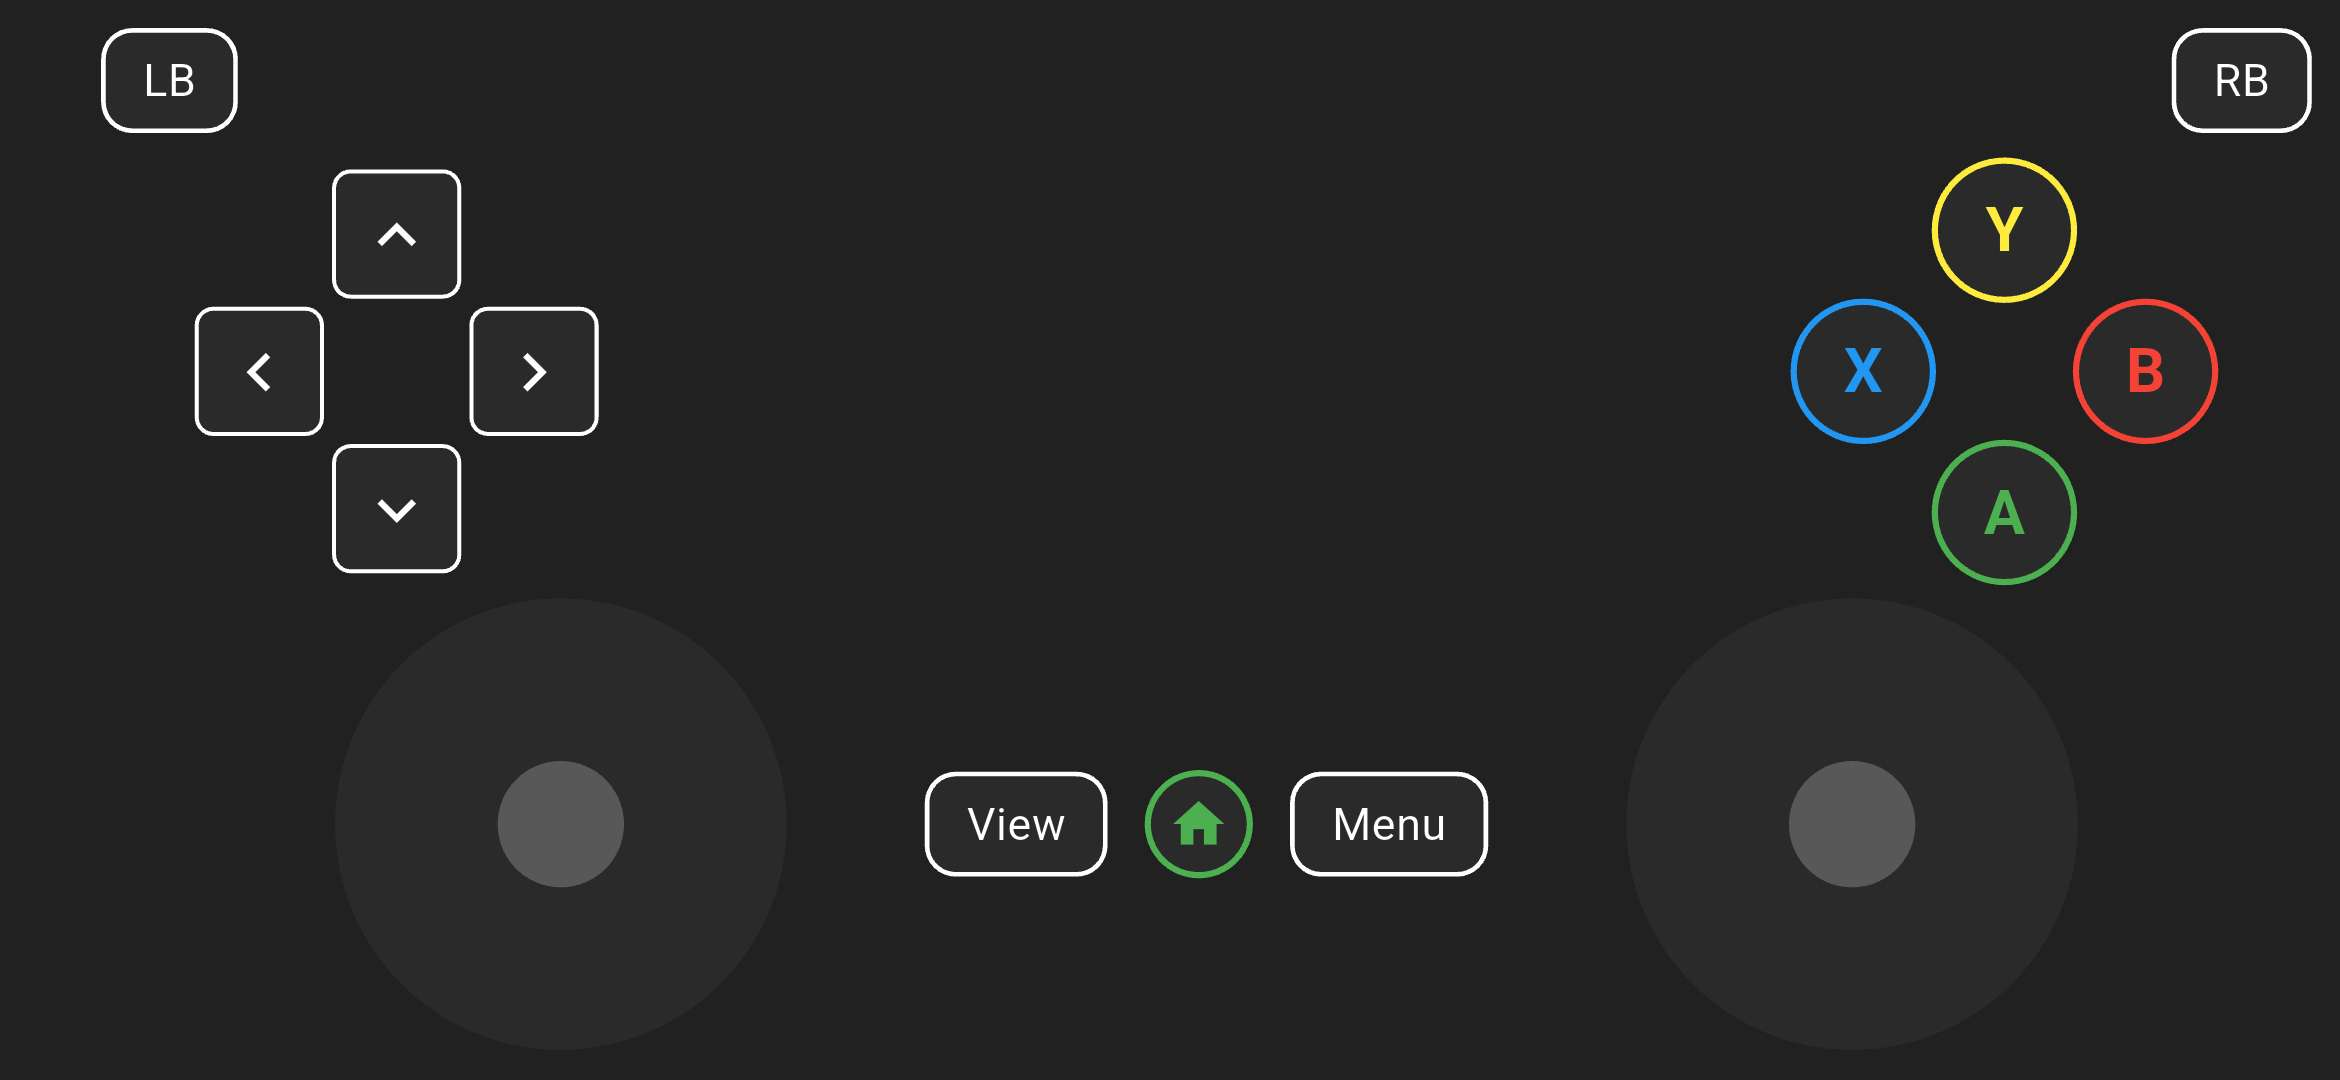
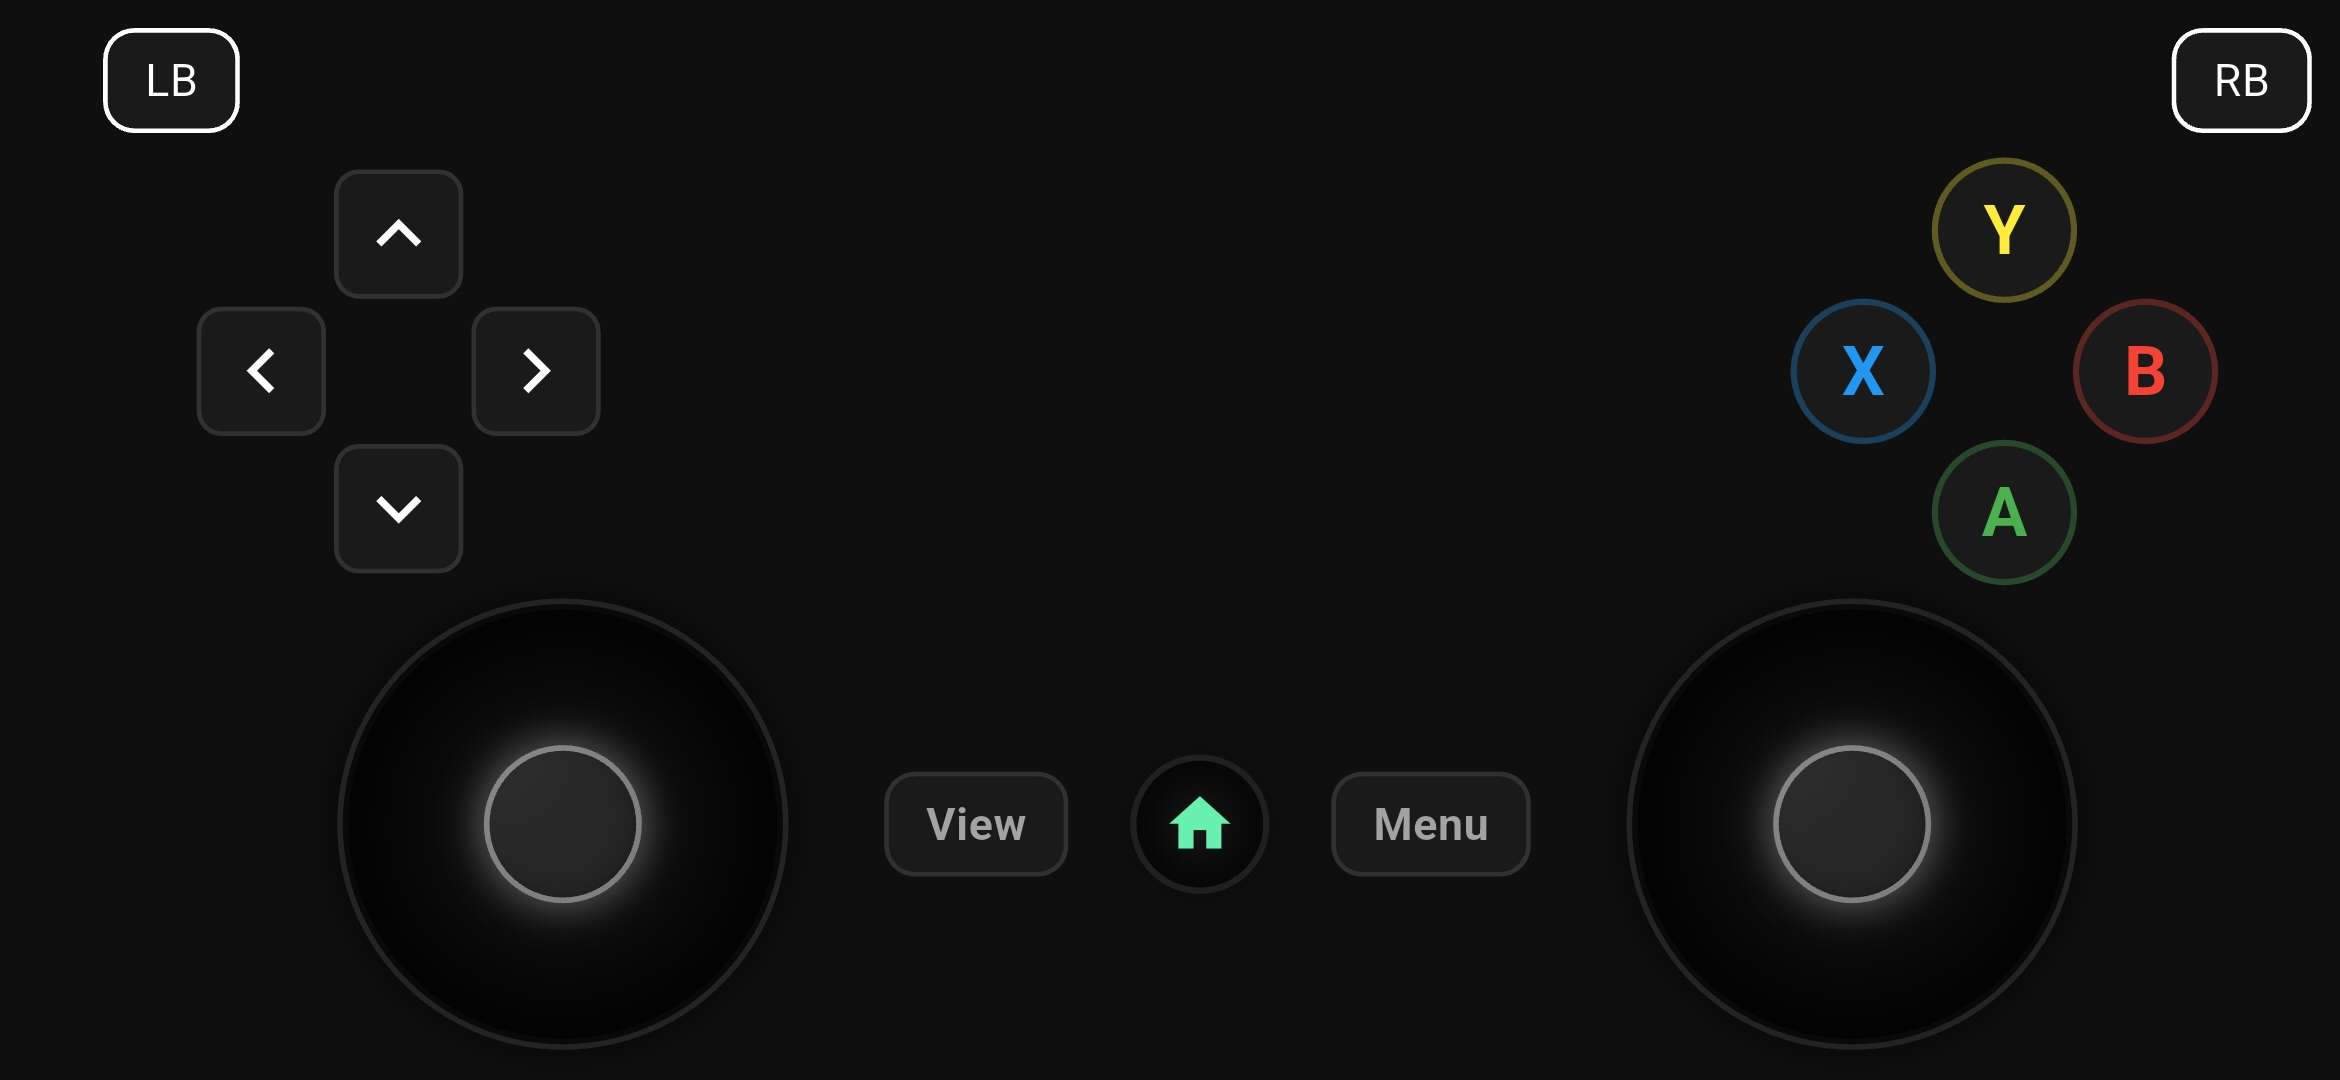
updated ui in readme

diff --git a/README.md b/README.md
@@ -69,6 +69,8 @@ Cheaptroller's user interface is functional and designed to provide an authentic
 | The PlayStation layout reproduces the typical symbols (Cross, Square, Triangle, Circle), along with the D-pad and analog sticks. This layout offers familiar controls for PS-oriented gamers.                                           |
 | **XBox Controller Layout**                                                                                                                                                                                                              | <img src="assets/XBox_Controller.jpg" alt="Xbox Controller" width="700">               |
 | The Xbox layout provides the A, B, X, and Y buttons as well as the precise arrangement of the analog sticks to simulate the feel of a real Xbox controller.                                                                             |
+| **Custom Layout**                                                                                                                                                                                                                       | <img src="assets/CustomLayout.jpg" alt="Custom Layout" width="700">                  |
+| The editor allows you to create a custom controller layout by placing buttons and joysticks anywhere on the screen. This gives you full control over the button arrangement to suit your specific needs.                                        |
 | **Server Dashboard (Web-UI)**                                                                                                                                                                                                           | <img src="assets/Server_Dash_board.png" alt="Server Dashboard" width="700">            |
 | The Dashboard opens in the browser after the Node.js server is started on the PC. It serves as a management interface for checking the connection status, IP address, and port, as well as for troubleshooting or future configuration. |
 
